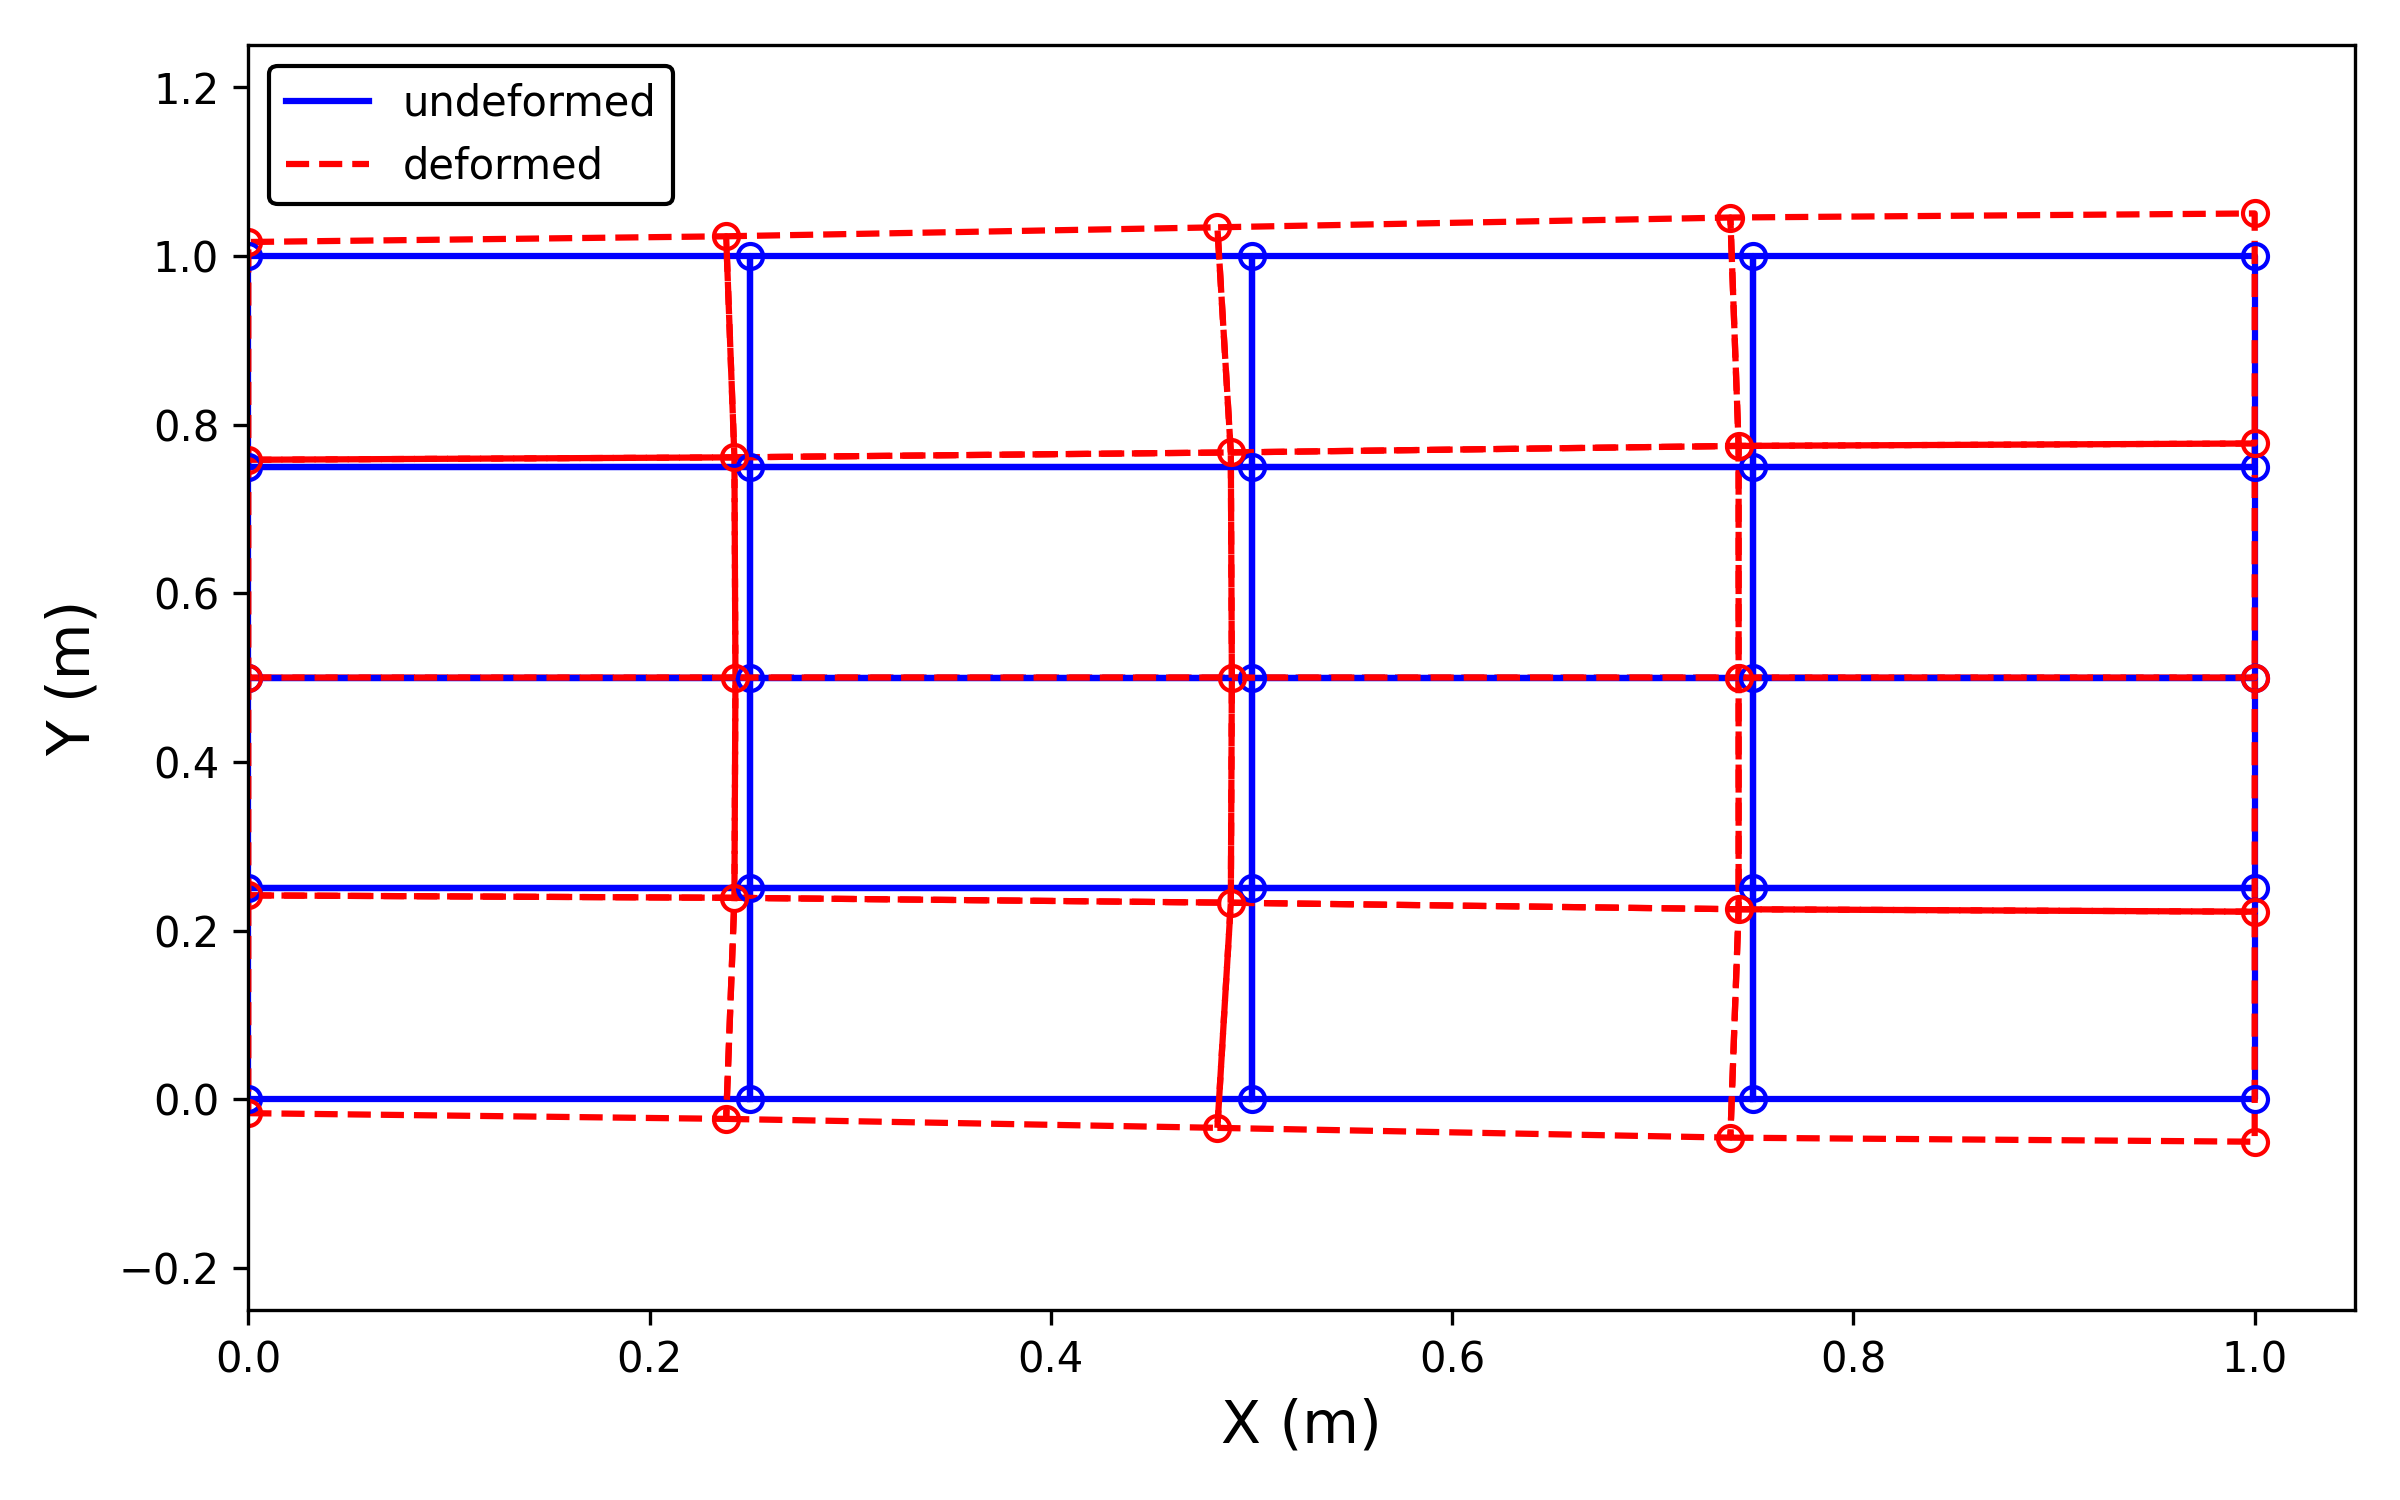
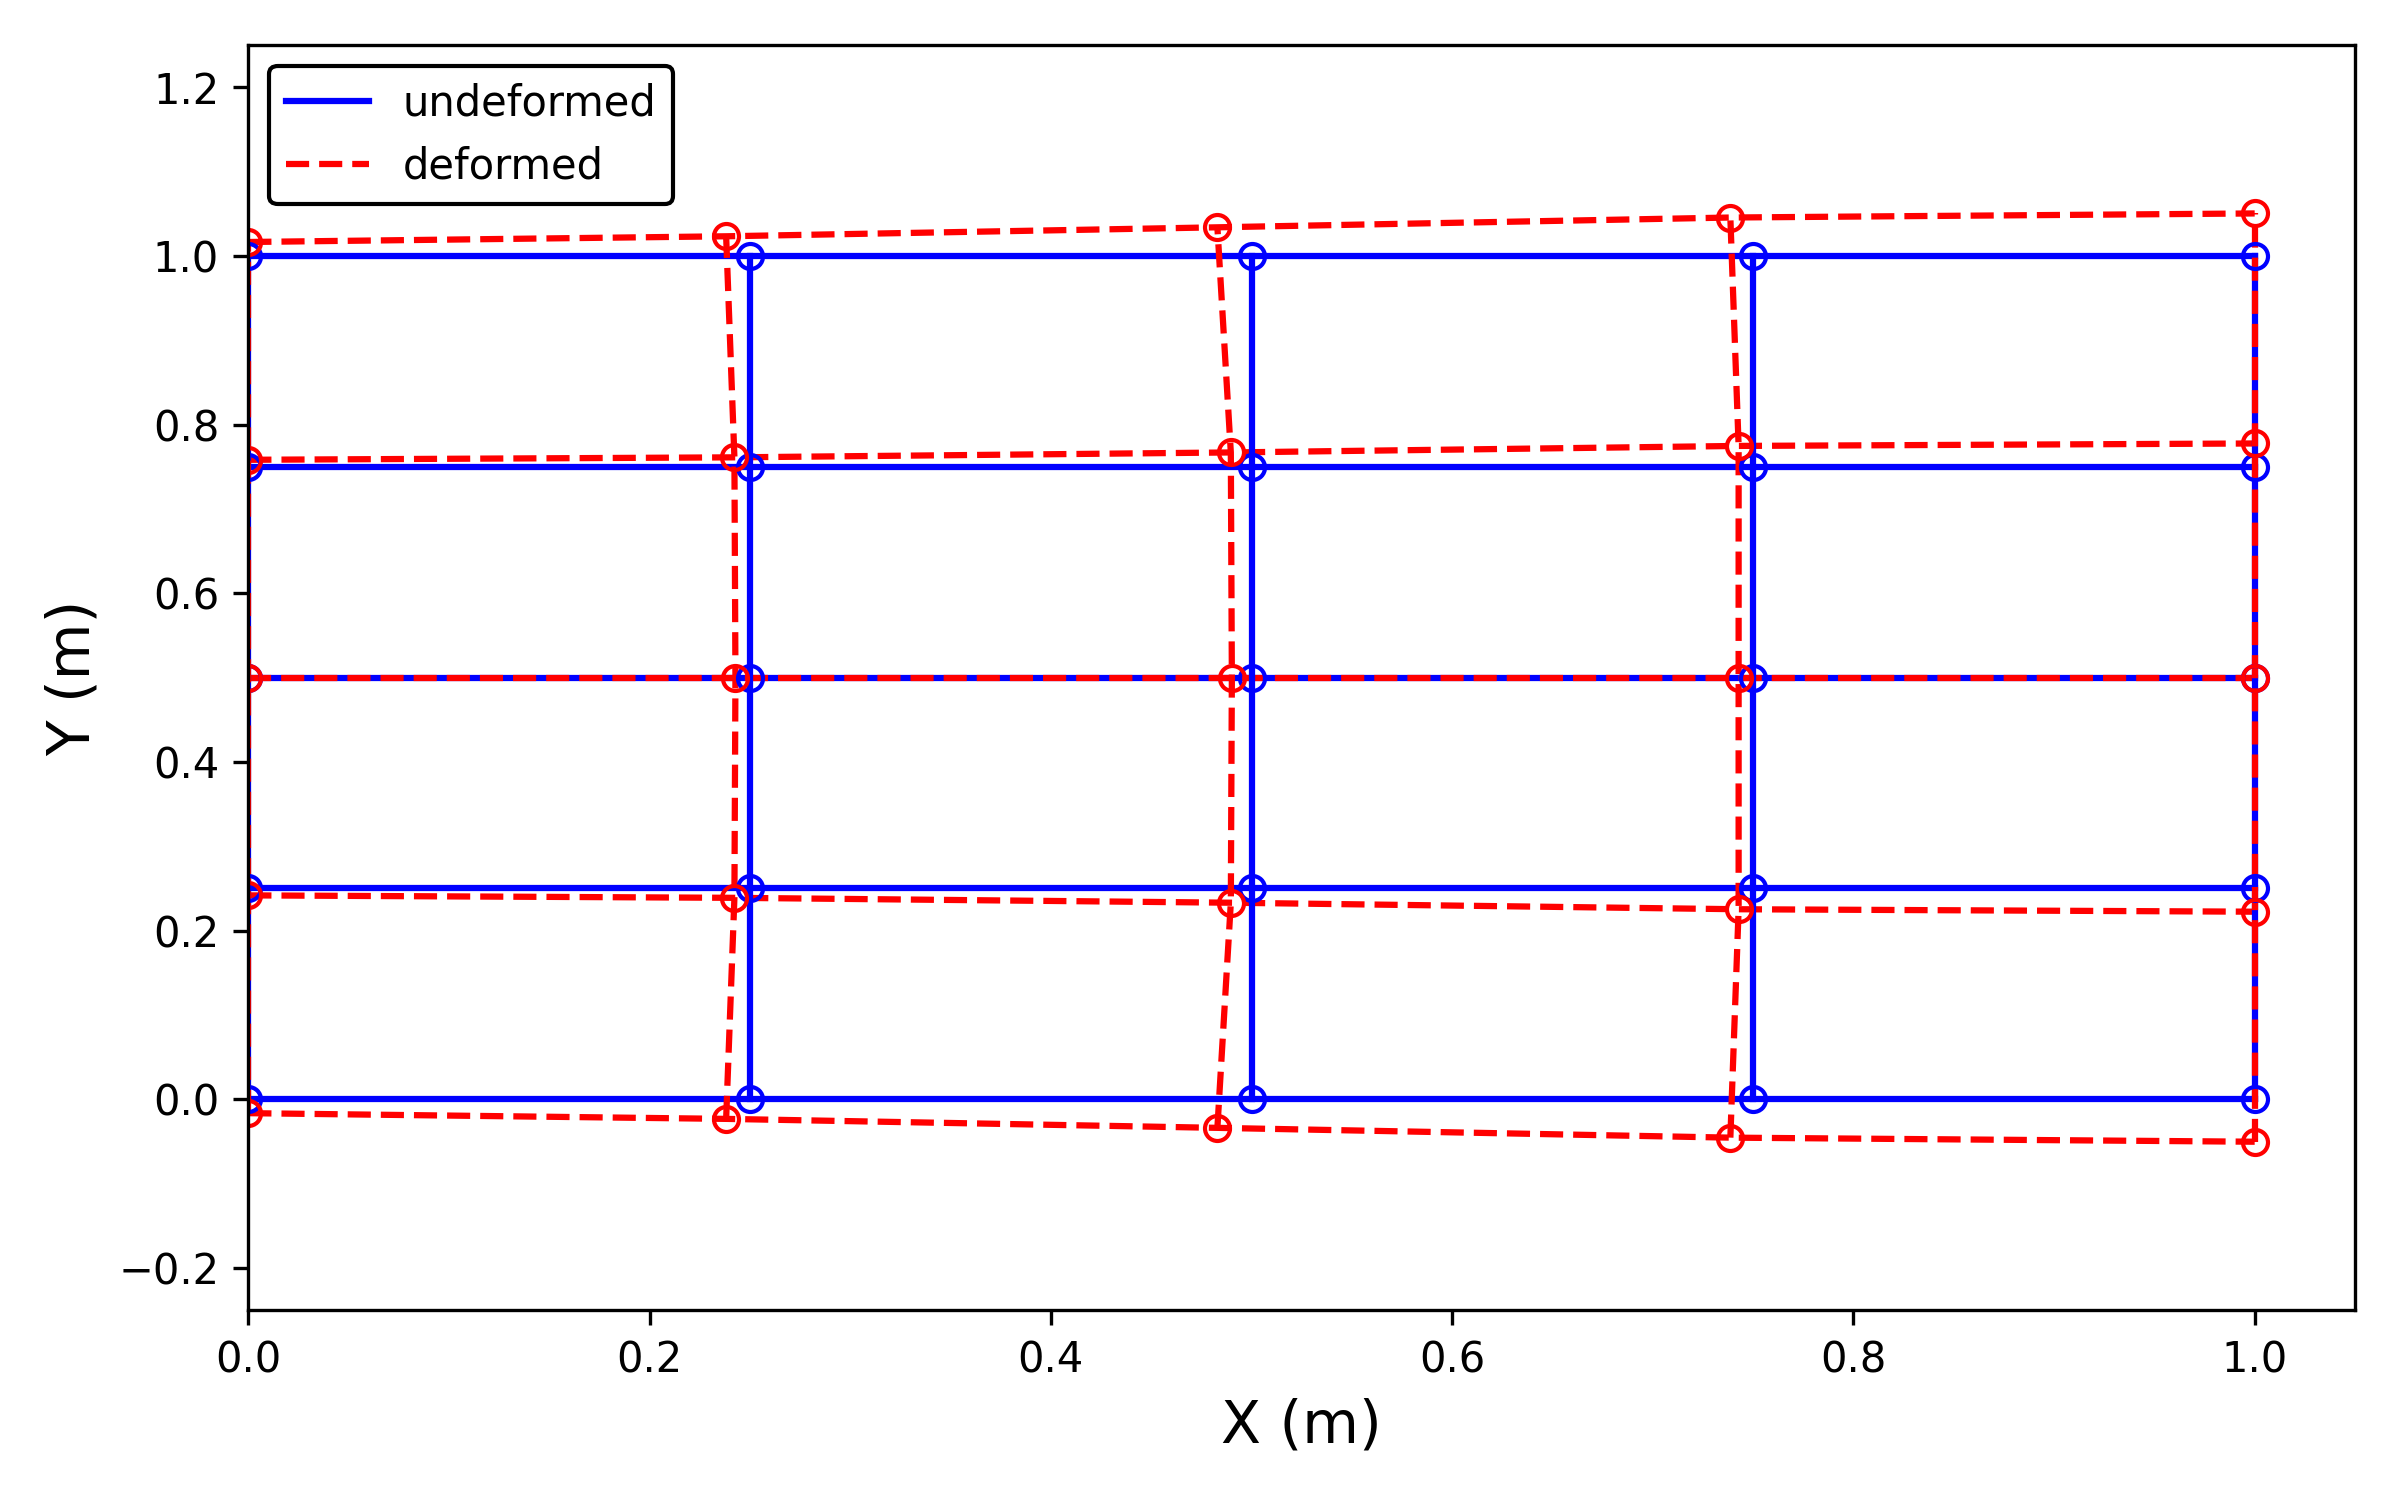
Corrected plotting logic which was causing it to plot solid lines for deformed shape

diff --git a/Assignment_1/non_uniform_heating.py b/Assignment_1/non_uniform_heating.py
@@ -182,28 +182,34 @@ print(f"Successfully saved tensor data to {results_dir}")
 
 # Plotting
 fig, ax = plt.subplots(figsize=(8, 5))
-for i, element in enumerate(conn):
-    # 5 nodes to close the visual loop
-    elem_idx = np.append(element, element[0])
+for i in range(ny_nodes):
+    start = i * nx_nodes
+    end = start + nx_nodes
 
+    # Add legends only on the first row
     if i == 0:
         ax.plot(
-            X_nodes[elem_idx, 0],
-            X_nodes[elem_idx, 1],
+            X_nodes[start:end, 0],
+            X_nodes[start:end, 1],
             "b-",
             linewidth=1.5,
             label="undeformed",
         )
         ax.plot(
-            x_nodes[elem_idx, 0],
-            x_nodes[elem_idx, 1],
+            x_nodes[start:end, 0],
+            x_nodes[start:end, 1],
             "r--",
             linewidth=1.5,
             label="deformed",
         )
     else:
-        ax.plot(X_nodes[elem_idx, 0], X_nodes[elem_idx, 1], "b-", linewidth=1.5)
-        ax.plot(x_nodes[elem_idx, 0], x_nodes[elem_idx, 1], "r--", linewidth=1.5)
+        ax.plot(X_nodes[start:end, 0], X_nodes[start:end, 1], "b-", linewidth=1.5)
+        ax.plot(x_nodes[start:end, 0], x_nodes[start:end, 1], "r--", linewidth=1.5)
+
+# Plot vertical grid lines (columns)
+for j in range(nx_nodes):
+    ax.plot(X_nodes[j::nx_nodes, 0], X_nodes[j::nx_nodes, 1], "b-", linewidth=1.5)
+    ax.plot(x_nodes[j::nx_nodes, 0], x_nodes[j::nx_nodes, 1], "r--", linewidth=1.5)
 
 ax.plot(X_nodes[:, 0], X_nodes[:, 1], "bo", markerfacecolor="none", markersize=6)
 ax.plot(x_nodes[:, 0], x_nodes[:, 1], "ro", markerfacecolor="none", markersize=6)
